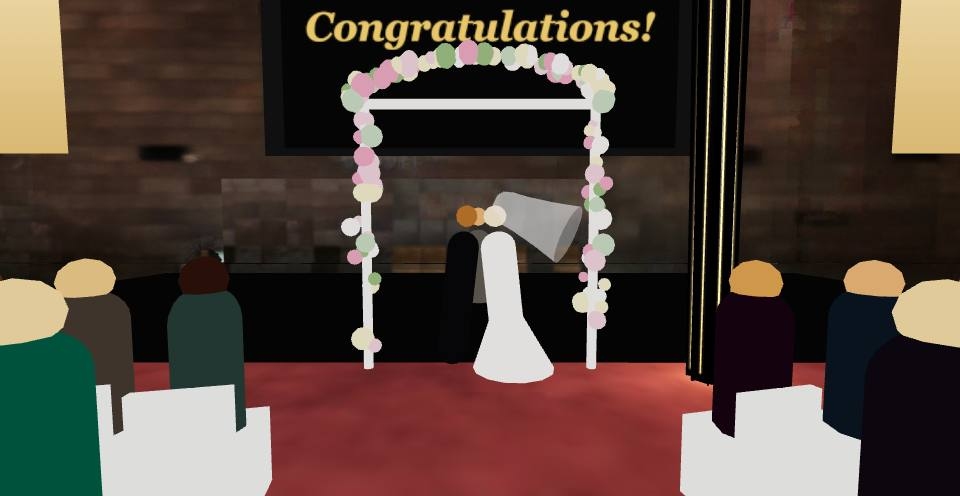
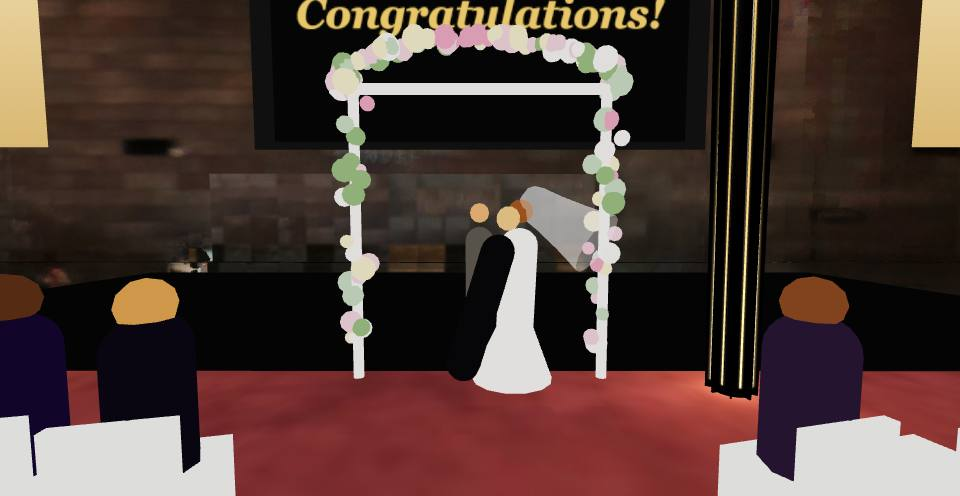
Shot 7 (Lloyd's note, V5): through the kiss and the dip their faces touch the whole time and nothing clips: the bride's head is worked out from her lean, and the groom's feet are placed each frame so his head lands 16 cm across and 16 cm in front of hers at his own lean; gentler leans (0.35 and 0.42

diff --git a/index.html b/index.html
@@ -2564,7 +2564,7 @@ function buildWedding(ctx){
  wedding={cp,y0,uMid,seated:null,t0:Math.random()*10,phase:'couple',hasGroom:true,gone:false,summon:null,cwalk:null};
  // the bride wears a GOWN and a VEIL (Lloyd): a white skirt flaring to the floor, and a
  // translucent cone of tulle draped over the head; both track her down the aisle
- const gown=new THREE.Mesh(new THREE.ConeGeometry(0.44,0.95,14),new THREE.MeshBasicMaterial({color:0xf7f5f0}));
+ const gown=new THREE.Mesh(new THREE.ConeGeometry(0.4,0.95,14),new THREE.MeshBasicMaterial({color:0xf7f5f0}));
  // (Lloyd, V2, V3) a proper veil: not a cone but a smooth cap over the head, draping out to the
  // waist; a lathe whose origin is the crown, so the lift swings it about the head
  const veil=new THREE.Mesh(new THREE.LatheGeometry([[0,0],[0.09,-0.01],[0.14,-0.05],[0.17,-0.14],[0.19,-0.3],[0.24,-0.55],[0.31,-0.82]].map(p=>new THREE.Vector2(p[0],p[1])),16),
@@ -2664,8 +2664,12 @@ function updateWedding(dt,t){
    // inside the gown's hem), he leans further over her instead
    const step=0.08*turn;
    fx-=side*U.x*step; fz-=side*U.z*step;
-   if(i===1){ const R=EVENT.N.inRoom; fx+=R.x*0.3*dip; fz+=R.z*0.3*dip; }   // the groom a step in front of her for the dip, clearly holding her
-   tiltA=i===0?(0.11*kiss-0.55*dip):(-0.11*kiss-0.6*dip); }
+   // (Lloyd, V5) their faces touch the whole time: the bride's head is worked out from her lean,
+   // and the groom's feet are placed so that HIS head lands 16 cm across and 16 cm in front of
+   // hers at his own lean; the leans are gentle enough that the bodies stay clear
+   if(i===0){ tiltA=0.11*kiss-0.35*dip; W.bh={x:fx+U.x*1.62*Math.sin(tiltA),z:fz+U.z*1.62*Math.sin(tiltA)}; }
+   else { tiltA=-0.11*kiss-0.42*dip; const k=Math.max(kiss,dip), R=EVENT.N.inRoom;
+    if(W.bh&&k>0){ const hx=W.bh.x+U.x*0.16+R.x*0.16*k, hz=W.bh.z+U.z*0.16+R.z*0.16*k; const sx=hx-U.x*1.62*Math.sin(tiltA), sz=hz-U.z*1.62*Math.sin(tiltA); fx+=(sx-fx)*k; fz+=(sz-fz)*k; } } }
   if(W.phase==='done'&&i===2)hide=true;
   // through the finale the bride and groom go where finaleStep puts them (out the door)
   if(W.fin&&i!==2){ if(W.fin.pos){ fx=W.fin.pos[i].x; fz=W.fin.pos[i].z; hide=false; } else hide=true; }

diff --git a/tour-storyboard.md b/tour-storyboard.md
@@ -332,8 +332,11 @@ V3 (sent 01/09/2026 23:13:22):
 V4 (sent 01/09/2026 23:40:47):
 [shot 7, 11.8 s] make sure the bride and groom don't clip into each other during the dip
 
-V5 (draft):
-[shot 7, 11.3 s] when they dip
+V5 (sent 01/09/2026 23:51:08):
+[shot 7, 11.3 s] when they dip, make sure their faces are touching the whole time and they don't clip into each other
+
+V6 (draft):
+
 
 ---
 
@@ -370,7 +373,10 @@ V6 (sent 01/09/2026 23:31:45):
 V7 (sent 01/09/2026 23:45:51):
 [shot 8, 16.5 s] make sure the people in the wheelchairs are bobbing up and down happily along with everyone else as well
 
-V8 (draft):
+V8 (sent 01/09/2026 23:53:22):
+[shot 8, 10.4 s] scene should end here and move onto the next scene
+
+V9 (draft):
 
 
 ---
